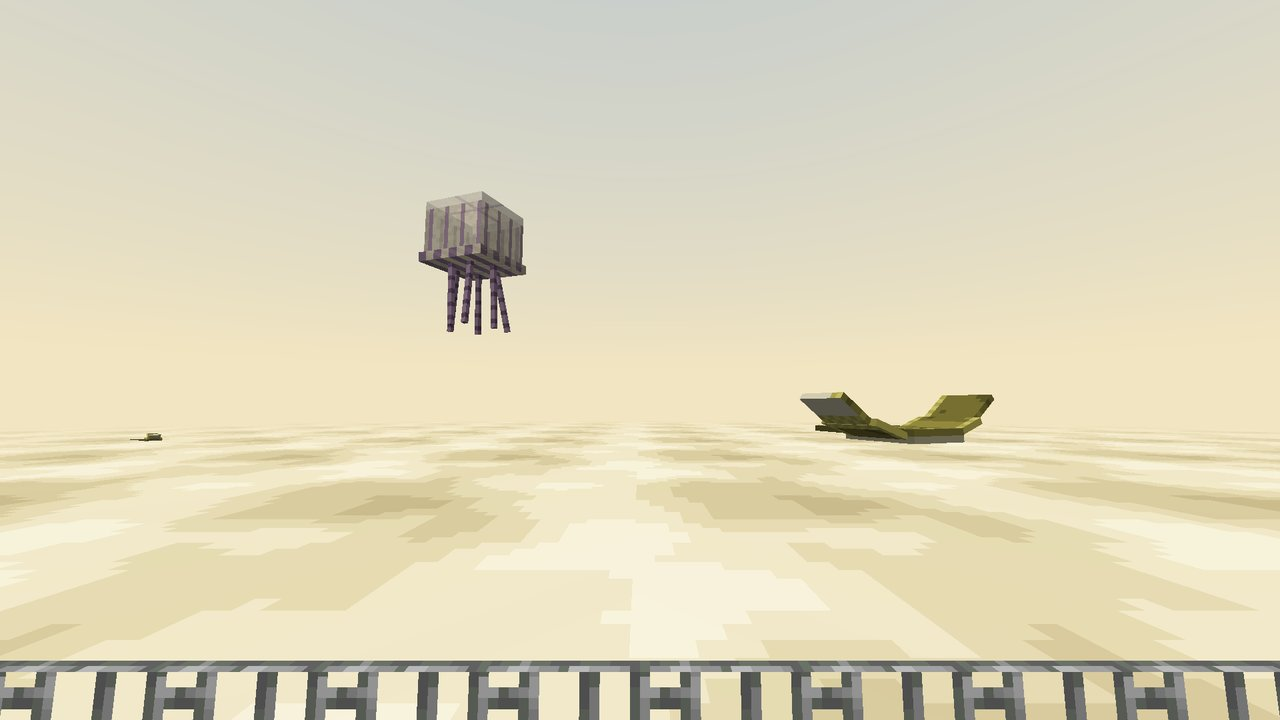
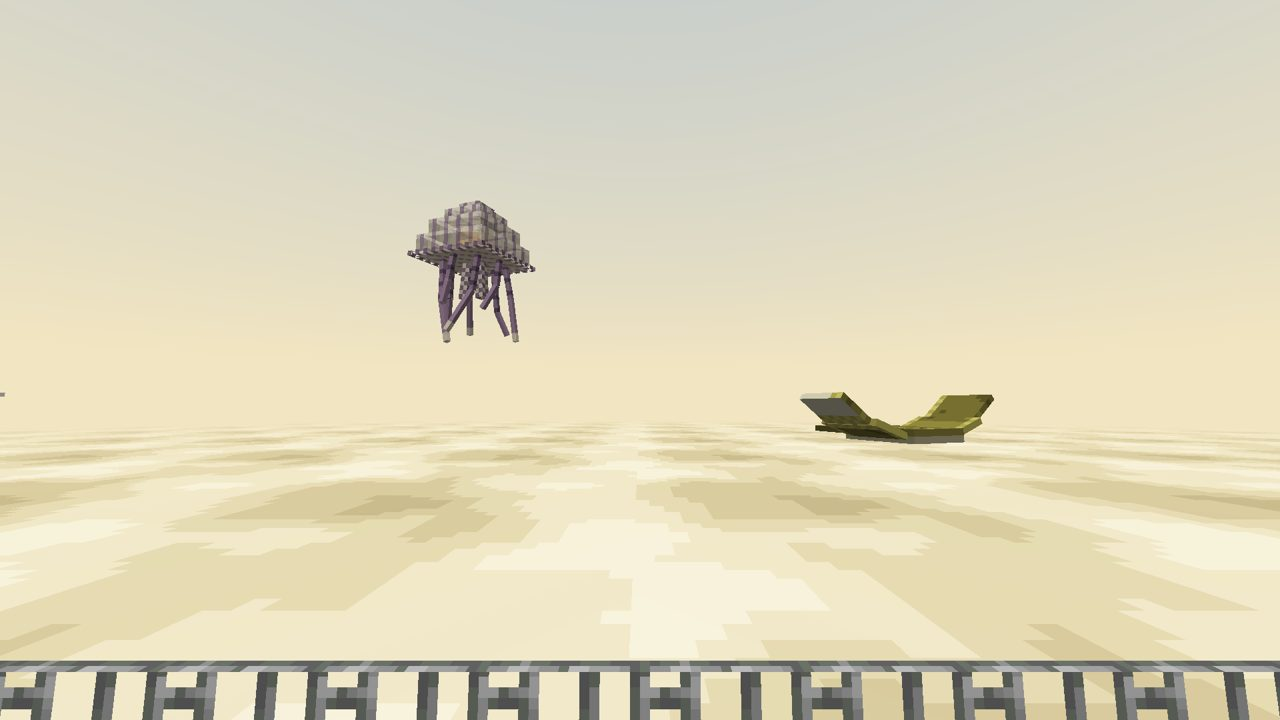
Cloud Jelly: a tiered translucent bell instead of a box on legs
A domed bell in stepped translucent tiers with lilac radial veins over a scalloped skirt, a warm glowing core seen through it, two frilly oral arms and eight tentacles of different lengths in two jointed segments that wave along their length. The lineup now floats its fliers a little.

Changed region(s): [[0.3125, 0.2444, 0.4375, 0.4889], [0.0938, 0.5806, 0.125, 0.6111]]

diff --git a/src/main/java/com/pizzaparker07/spacebreaker/client/venus/CloudJellyModel.java b/src/main/java/com/pizzaparker07/spacebreaker/client/venus/CloudJellyModel.java
@@ -12,32 +12,51 @@ import net.minecraft.client.model.geom.builders.MeshDefinition;
 import net.minecraft.client.model.geom.builders.PartDefinition;
 import net.minecraft.util.Mth;
 
-/** Cloud Jelly: a gas sac above a frilled rim, six long tentacles that sway. The sac pulses slowly. */
+/**
+ * Cloud Jelly: a translucent domed bell in stepped tiers over a frilled skirt, a warm glowing core inside it, two
+ * frilly oral arms and eight tentacles of different lengths in two jointed segments that trail and sway. The bell
+ * pulses slowly as it drifts. UVs: tools/textures/modules/venus.py.
+ */
 public class CloudJellyModel extends HierarchicalModel<CloudJelly> {
     public static final ModelLayerLocation LAYER = new ModelLayerLocation(Spacebreaker.id("cloud_jelly"), "main");
+    private static final int TENTACLES = 8;
     private final ModelPart root;
-    private final ModelPart sac;
-    private final ModelPart[] tentacles = new ModelPart[6];
+    private final ModelPart bell;
+    private final ModelPart[] upper = new ModelPart[TENTACLES];
+    private final ModelPart[] lower = new ModelPart[TENTACLES];
 
     public CloudJellyModel(ModelPart root) {
         this.root = root;
-        this.sac = root.getChild("sac");
-        for (int i = 0; i < 6; i++) {
-            tentacles[i] = root.getChild("tentacle" + i);
+        this.bell = root.getChild("bell");
+        for (int i = 0; i < TENTACLES; i++) {
+            upper[i] = root.getChild("tentacle" + i);
+            lower[i] = upper[i].getChild("end");
         }
     }
 
     public static LayerDefinition createLayer() {
         MeshDefinition mesh = new MeshDefinition();
         PartDefinition root = mesh.getRoot();
-        root.addOrReplaceChild("sac", CubeListBuilder.create().texOffs(0, 0).addBox(-7F, -12F, -7F, 14F, 12F, 14F), PartPose.offset(0F, -4F, 0F));
-        root.addOrReplaceChild("rim", CubeListBuilder.create().texOffs(0, 26).addBox(-8F, 0F, -8F, 16F, 2F, 16F), PartPose.offset(0F, -4F, 0F));
-        for (int i = 0; i < 6; i++) {
-            double a = i * Math.PI / 3;
-            root.addOrReplaceChild("tentacle" + i, CubeListBuilder.create().texOffs(56, 0).addBox(-0.5F, 0F, -0.5F, 1F, 14F, 1F),
-                    PartPose.offset((float) Math.cos(a) * 5F, -2F, (float) Math.sin(a) * 5F));
+        PartDefinition bell = root.addOrReplaceChild("bell", CubeListBuilder.create(), PartPose.offset(0F, -4F, 0F));
+        bell.addOrReplaceChild("tier0", CubeListBuilder.create().texOffs(0, 0).addBox(-8F, -4F, -8F, 16F, 4F, 16F), PartPose.ZERO);
+        bell.addOrReplaceChild("tier1", CubeListBuilder.create().texOffs(64, 0).addBox(-6.5F, -4F, -6.5F, 13F, 4F, 13F), PartPose.offset(0F, -4F, 0F));
+        bell.addOrReplaceChild("tier2", CubeListBuilder.create().texOffs(0, 20).addBox(-4.5F, -3F, -4.5F, 9F, 3F, 9F), PartPose.offset(0F, -8F, 0F));
+        bell.addOrReplaceChild("cap", CubeListBuilder.create().texOffs(36, 20).addBox(-2.5F, -2F, -2.5F, 5F, 2F, 5F), PartPose.offset(0F, -11F, 0F));
+        bell.addOrReplaceChild("skirt", CubeListBuilder.create().texOffs(0, 36).addBox(-9F, 0F, -9F, 18F, 1F, 18F), PartPose.ZERO);
+        bell.addOrReplaceChild("core", CubeListBuilder.create().texOffs(56, 20).addBox(-2.5F, -2.5F, -2.5F, 5F, 5F, 5F), PartPose.offset(0F, -4F, 0F));
+        for (int k = 0; k < 2; k++) {
+            root.addOrReplaceChild("arm" + k, CubeListBuilder.create().texOffs(84, 20).addBox(-1F, 0F, -1F, 2F, 8F, 2F),
+                    PartPose.offsetAndRotation(k == 0 ? -1.5F : 1.5F, -3F, 0F, 0F, 0F, k == 0 ? 0.1F : -0.1F));
         }
-        return LayerDefinition.create(mesh, 64, 64);
+        for (int i = 0; i < TENTACLES; i++) {
+            double a = i * Math.PI * 2 / TENTACLES;
+            float l1 = 6F + (i % 3) * 2F;
+            float l2 = 6F + (i % 2) * 4F;
+            PartDefinition t = root.addOrReplaceChild("tentacle" + i, CubeListBuilder.create().texOffs(76, 20).addBox(-0.5F, 0F, -0.5F, 1F, l1, 1F),
+                    PartPose.offset((float) Math.cos(a) * 6.5F, -3.5F, (float) Math.sin(a) * 6.5F));
+            t.addOrReplaceChild("end", CubeListBuilder.create().texOffs(80, 20).addBox(-0.5F, 0F, -0.5F, 1F, l2, 1F), PartPose.offset(0F, l1, 0F));
+        }
+        return LayerDefinition.create(mesh, 128, 64);
     }
 
     @Override
@@ -47,13 +66,17 @@ public class CloudJellyModel extends HierarchicalModel<CloudJelly> {
 
     @Override
     public void setupAnim(CloudJelly jelly, float limbSwing, float limbSwingAmount, float ageInTicks, float netHeadYaw, float headPitch) {
-        float pulse = 1F + Mth.sin(ageInTicks * 0.08F) * 0.05F;
-        sac.xScale = pulse;
-        sac.zScale = pulse;
-        sac.yScale = 2F - pulse;
-        for (int i = 0; i < 6; i++) {
-            tentacles[i].xRot = Mth.sin(ageInTicks * 0.06F + i) * 0.18F;
-            tentacles[i].zRot = Mth.cos(ageInTicks * 0.05F + i * 1.7F) * 0.18F;
+        float pulse = 1F + Mth.sin(ageInTicks * 0.08F) * 0.06F;
+        bell.xScale = pulse;
+        bell.zScale = pulse;
+        bell.yScale = 2F - pulse;
+        for (int i = 0; i < TENTACLES; i++) {
+            float ph = ageInTicks * 0.06F + i * 0.9F;
+            upper[i].xRot = Mth.sin(ph) * 0.16F;
+            upper[i].zRot = Mth.cos(ph * 0.8F + i) * 0.16F;
+            // the ends trail a beat behind, so each tentacle waves along its length
+            lower[i].xRot = Mth.sin(ph - 1.2F) * 0.3F;
+            lower[i].zRot = Mth.cos(ph * 0.8F + i - 1.2F) * 0.3F;
         }
     }
 }

diff --git a/tools/textures/modules/venus.py b/tools/textures/modules/venus.py
@@ -366,36 +366,53 @@ def acid_ray():
     return cv
 
 
+CORE = ramp('#c8742c', '#e89a40', '#f8c868')
+
+
 def cloud_jelly():
-    """Cloud Jelly: a pale translucent gas sac with lilac veins and a frilled rim; long lilac tentacles."""
-    cv = Canvas(64, 64)
-    n = clustered(64, 64, 6101, passes=2)
+    """Cloud Jelly (128x64): a pale translucent bell with lilac radial veins in tiers, a darker frilled skirt with a
+    scalloped edge, a warm glowing core seen through it, lilac tentacles banded paler toward their tips."""
+    cv = Canvas(128, 64)
+    n = clustered(128, 64, 6101, passes=2)
 
-    def sac(face, x, y, fw, fh):
-        v = n[(y * 3) % 64][(x * 3) % 64]
+    def bell(alpha):
+        def f(face, x, y, fw, fh):
+            v = n[(y * 3) % 64][(x * 3) % 128]
+            if face == 'top':
+                c = VEIN[0] if (x == fw // 2 or y == fh // 2 or x == y or x == fw - 1 - y) else (SAC[3] if v > 0.5 else SAC[2])
+                return (c[0], c[1], c[2], alpha + 20)
+            if face == 'bottom':
+                return (SAC[1][0], SAC[1][1], SAC[1][2], alpha - 30)
+            if x % 3 == 1:
+                return (VEIN[0][0], VEIN[0][1], VEIN[0][2], alpha + 30)
+            c = SAC[4] if y == 0 else (SAC[2] if v > 0.4 else SAC[1])
+            return (c[0], c[1], c[2], alpha)
+        return f
+
+    paint(cv, 0, 0, 16, 4, 16, bell(150))
+    paint(cv, 64, 0, 13, 4, 13, bell(160))
+    paint(cv, 0, 20, 9, 3, 9, bell(170))
+    paint(cv, 36, 20, 5, 2, 5, bell(190))
+
+    def skirt(face, x, y, fw, fh):
         if face in ('top', 'bottom'):
-            c = SAC[3] if v > 0.5 else SAC[2]
-            if (x == fw // 2 or y == fh // 2) and face == 'top':
-                c = VEIN[0]
-            return (c[0], c[1], c[2], 200)
-        if x % 4 == 1 and y > 1:
-            return (VEIN[0][0], VEIN[0][1], VEIN[0][2], 210)
-        c = SAC[4] if y < 2 else (SAC[2] if v > 0.4 else SAC[1])
-        return (c[0], c[1], c[2], 170)
+            edge = x in (0, fw - 1) or y in (0, fh - 1)
+            if edge and (x + y) % 2 == 0:
+                return None  # scalloped edge
+            c = VEIN[1] if edge else (VEIN[0] if (x + y) % 4 == 0 else SAC[1])
+            return (c[0], c[1], c[2], 210)
+        return (VEIN[1][0], VEIN[1][1], VEIN[1][2], 220) if x % 2 == 0 else None
 
-    paint(cv, 0, 0, 14, 12, 14, sac)
-
-    def rim(face, x, y, fw, fh):
-        c = VEIN[1] if (x // 2) % 2 == 0 else SAC[1]
-        return (c[0], c[1], c[2], 220)
-
-    paint(cv, 0, 26, 16, 2, 16, rim)
+    paint(cv, 0, 36, 18, 1, 18, skirt)
+    paint(cv, 56, 20, 5, 5, 5, lambda f, x, y, fw, fh: CORE[2] if 1 <= x <= 3 and 1 <= y <= 3 else CORE[1])
 
     def tentacle(face, x, y, fw, fh):
         c = VEIN[0] if y % 3 else VEIN[2]
         return (c[0], c[1], c[2], 230)
 
-    paint(cv, 56, 0, 1, 14, 1, tentacle)
+    paint(cv, 76, 20, 1, 10, 1, tentacle)
+    paint(cv, 80, 20, 1, 10, 1, lambda f, x, y, fw, fh: (SAC[2][0], SAC[2][1], SAC[2][2], 200) if y > fh - 3 else (VEIN[0][0], VEIN[0][1], VEIN[0][2], 220))
+    paint(cv, 84, 20, 2, 8, 2, lambda f, x, y, fw, fh: (VEIN[1][0], VEIN[1][1], VEIN[1][2], 230) if (x + y) % 2 else (SAC[2][0], SAC[2][1], SAC[2][2], 220))
     return cv
 
 

diff --git a/src/testmod/java/com/pizzaparker07/spacebreaker/testmod/showcase/InnerCreatureLineupScenario.java b/src/testmod/java/com/pizzaparker07/spacebreaker/testmod/showcase/InnerCreatureLineupScenario.java
@@ -61,7 +61,8 @@ final class InnerCreatureLineupScenario implements ShowcaseScenario {
             if (m == null) {
                 continue;
             }
-            m.moveTo(X0 + offset(i) + 0.5, gy + (m.isNoGravity() ? 1.5 : 0), Z0 + 0.5, 0F, 0F);
+            double lift = CREATURES.get(i).name().equals("cloud_jelly") ? 0.4 : CREATURES.get(i).name().equals("acid_ray") ? 0.8 : 0; // fliers float a little
+            m.moveTo(X0 + offset(i) + 0.5, gy + lift, Z0 + 0.5, 0F, 0F);
             m.setYBodyRot(0F);
             m.setYHeadRot(0F);
             m.setNoAi(true);

diff --git a/docs/CONTENT.md b/docs/CONTENT.md
@@ -391,7 +391,7 @@ Her içerik paketi gerçek istemcide vitrin dünyasında fotoğraflanır; onayda
 |---|---|
 | Ay 🎨 | Regolit Kenesi (tozun altına saklanır, düşük yerçekiminde sıçrar), Yaşlı Regolit Kenesi (lav tüpü muhafızı), Toz Yüzücüsü (regolitin hemen altında süzülen pasif canlı, arkasında toz dalgaları), Keşif Dronu (karakol muhafızı, sersemletme atışı), Parıltı Böceği (pasif, ışıyan; fırçayla Parıltı Kabuğu verir → elektriksiz Parıltı Lambası, Ay gecesi için), Isı Emici (yalnız Ay gecesinde çıkar, lamba ışığında doğmaz; dokunuşu dondurur, akü ve jeneratörlerden enerji emip parlar, gün doğunca süblimleşir; ölünce emdiği enerji kızıltaşa döner) |
 | Mars 🎨 | Pas Böceği (demir oksit yer, tarafsız), Toz Şeytanı (fırtınalarda canlı hortum), Kanyon Pusucusu, Taş Otlayan (alçak, geniş, zırhlı pasif otlayıcı: sırtında kiremit gibi dizili pas lekeli kaya plakaları, kamaya benzer baş, kayadan kabuk kazıyan geniş yassı çene, altı kısa kalın bacak), Kutup Kurtçuğu |
-| Venüs (bulutlar) 🎨 | Asit Vatozu (süzülen, tarafsız; kükürt ve deri bırakır), Bulut Medüzü (pasif gaz kesesi; Kaldırma Gazı Kesesi bırakır: kullanınca 30 sn yavaş düşüş) |
+| Venüs (bulutlar) 🎨 | Asit Vatozu (süzülen, tarafsız; kükürt ve deri bırakır), Bulut Medüzü (pasif; basamaklı yarı saydam kubbe çan, fırfırlı etek, içinde ışıyan sıcak çekirdek, iki fırfırlı ağız kolu ve farklı uzunlukta, iki eklemli sekiz dokunaç; Kaldırma Gazı Kesesi bırakır: kullanınca 30 sn yavaş düşüş) |
 | Merkür 🎨 | Alacakaranlık Sürüngeni (tehlikeli; grafit bırakır; gece-gündüz sınırında yaşar; güneş yükselince ya da gece çökünce toprağa gömülür), Oyuk Salyangozu (pasif, faydalı: oyuk tortusunu kazıyıp kükürt bırakır, kükürtle çoğalır) |
 | Io 🎨 | Kükürt Yengeci (ısıya dayanıklı, yakınına gelene saldırır) |
 | Europa 🎨 | Buzaltı Işık Yılanı (biyolüminesan, pasif; tuzlu su havuzlarında ve gömülü okyanusta) |
